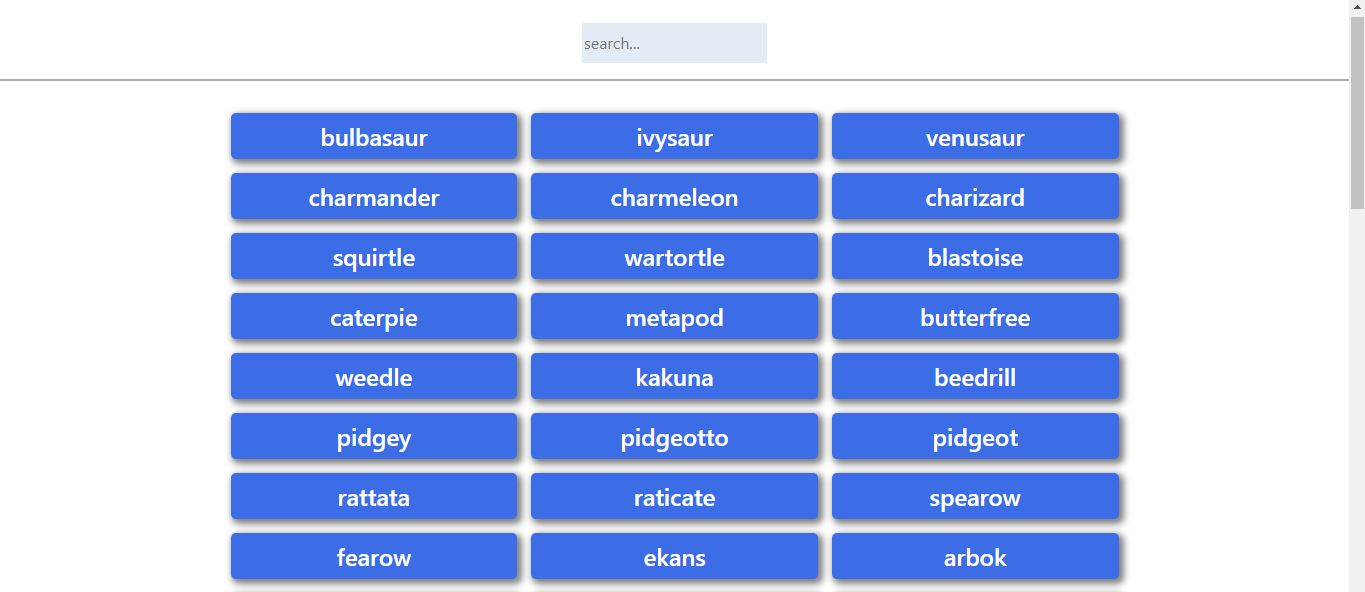
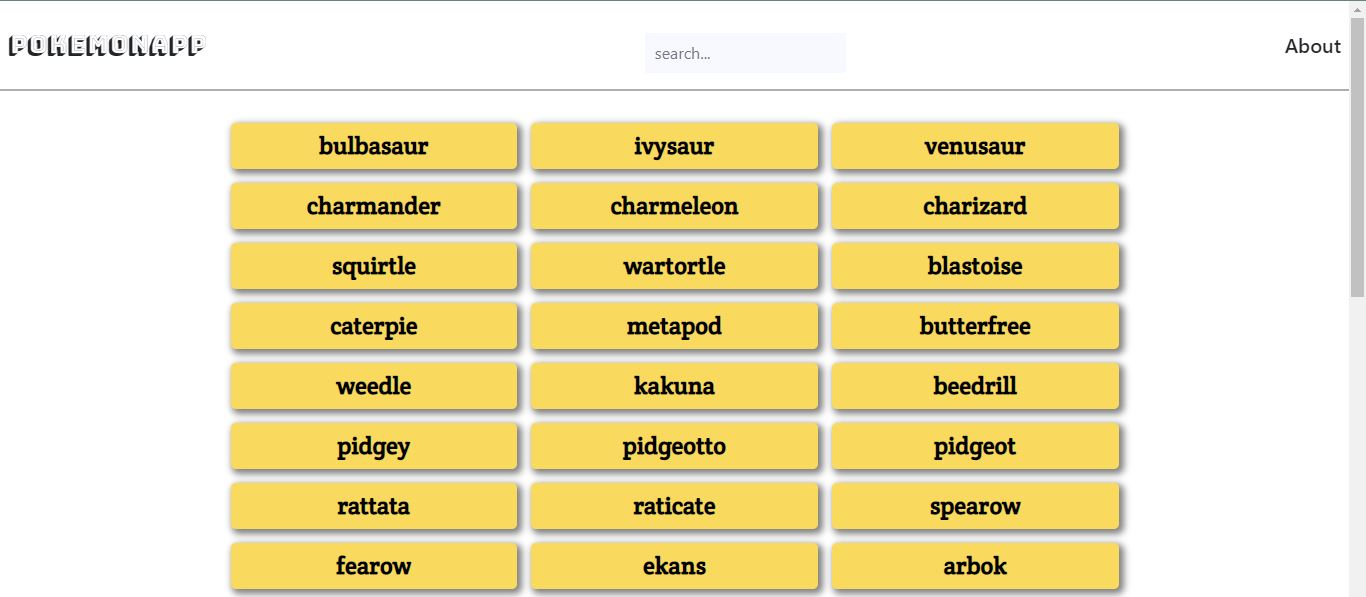
edited the read me page and added responsiveness to the navbar

diff --git a/css/dist-styles.css b/css/dist-styles.css
@@ -1,1 +1,1 @@
-.load{position:fixed;width:100vw;height:100vh;z-index:999;background-color:#fff;display:-webkit-box;display:-ms-flexbox;display:flex;-webkit-box-pack:center;-ms-flex-pack:center;justify-content:center;-webkit-box-align:center;-ms-flex-align:center;align-items:center}.load.hide{display:none}.header{border-bottom:#abaeb2 2px solid;position:sticky;top:0;background-color:#fff}.header-logo{font-family:'Bungee Shade',cursive;font-size:24px}input{background-color:#f8f8ff;border:none;padding:0 10px}#pokemon-div{display:-ms-grid;display:grid;-ms-grid-columns:1fr;grid-template-columns:1fr;-ms-grid-rows:auto;grid-template-rows:auto;row-gap:14px;width:80%;margin:16px 0}#pokemon-div>:nth-child(1){-ms-grid-row:1;-ms-grid-column:1}.pokemon-name{width:100%;margin:0 auto;background-color:#fada5e;color:#000;padding:5px 8px;border-radius:5px;border:none;width:100%;font-weight:600;font-size:24px;font-family:'Crete Round',serif;-webkit-box-shadow:3px 3px 7px 2px grey;box-shadow:3px 3px 7px 2px grey}.pokemon-name:focus,.pokemon-name:hover{-webkit-box-shadow:none;box-shadow:none}#pokemon-container{display:-webkit-box;display:-ms-flexbox;display:flex;-webkit-box-pack:center;-ms-flex-pack:center;justify-content:center;-webkit-box-align:center;-ms-flex-align:center;align-items:center}@media all and (min-width:500px) and (max-width:750px){#pokemon-div{display:-ms-grid;display:grid;-ms-grid-columns:1fr 14px 1fr;grid-template-columns:repeat(2,1fr);-ms-grid-rows:auto;grid-template-rows:auto;gap:14px 14px}#pokemon-div>:nth-child(1){-ms-grid-row:1;-ms-grid-column:1}#pokemon-div>:nth-child(2){-ms-grid-row:1;-ms-grid-column:3}}@media all and (min-width:750px){#pokemon-div{display:-ms-grid;display:grid;-ms-grid-columns:1fr 14px 1fr 14px 1fr;grid-template-columns:repeat(3,1fr);-ms-grid-rows:auto;grid-template-rows:auto;gap:14px 14px}#pokemon-div>:nth-child(1){-ms-grid-row:1;-ms-grid-column:1}#pokemon-div>:nth-child(2){-ms-grid-row:1;-ms-grid-column:3}#pokemon-div>:nth-child(3){-ms-grid-row:1;-ms-grid-column:5}}
+.load{position:fixed;width:100vw;height:100vh;z-index:999;background-color:#fff;display:-webkit-box;display:-ms-flexbox;display:flex;-webkit-box-pack:center;-ms-flex-pack:center;justify-content:center;-webkit-box-align:center;-ms-flex-align:center;align-items:center}.load.hide{display:none}.header{border-bottom:#abaeb2 2px solid;position:sticky;top:0;background-color:#fff}.header-logo{font-family:'Bungee Shade',cursive;font-size:24px}.header-about{font-size:20px;font-weight:500}input{background-color:#f8f8ff;border:none;padding:0 10px}#pokemon-div{display:-ms-grid;display:grid;-ms-grid-columns:1fr;grid-template-columns:1fr;-ms-grid-rows:auto;grid-template-rows:auto;row-gap:14px;width:80%;margin:16px 0}#pokemon-div>:nth-child(1){-ms-grid-row:1;-ms-grid-column:1}.pokemon-name{width:100%;margin:0 auto;background-color:#fada5e;color:#000;padding:5px 8px;border-radius:5px;border:none;width:100%;font-weight:600;font-size:24px;font-family:'Crete Round',serif;-webkit-box-shadow:3px 3px 7px 2px grey;box-shadow:3px 3px 7px 2px grey}.pokemon-name:focus,.pokemon-name:hover{-webkit-box-shadow:none;box-shadow:none}#pokemon-container{display:-webkit-box;display:-ms-flexbox;display:flex;-webkit-box-pack:center;-ms-flex-pack:center;justify-content:center;-webkit-box-align:center;-ms-flex-align:center;align-items:center}@media all and (min-width:500px) and (max-width:750px){#pokemon-div{display:-ms-grid;display:grid;-ms-grid-columns:1fr 14px 1fr;grid-template-columns:repeat(2,1fr);-ms-grid-rows:auto;grid-template-rows:auto;gap:14px 14px}#pokemon-div>:nth-child(1){-ms-grid-row:1;-ms-grid-column:1}#pokemon-div>:nth-child(2){-ms-grid-row:1;-ms-grid-column:3}}@media all and (min-width:750px){#pokemon-div{display:-ms-grid;display:grid;-ms-grid-columns:1fr 14px 1fr 14px 1fr;grid-template-columns:repeat(3,1fr);-ms-grid-rows:auto;grid-template-rows:auto;gap:14px 14px}#pokemon-div>:nth-child(1){-ms-grid-row:1;-ms-grid-column:1}#pokemon-div>:nth-child(2){-ms-grid-row:1;-ms-grid-column:3}#pokemon-div>:nth-child(3){-ms-grid-row:1;-ms-grid-column:5}}

diff --git a/index.html b/index.html
@@ -16,10 +16,10 @@
         <div class="load">
            <img src="images/loadingIcon.gif" alt="loadingIcon">
         </div>
-        <div class="d-flex justify-content-between align-items-center flex-column-sm my-3 header">
+        <div class="d-flex flex-column flex-md-row justify-content-between align-items-center  my-3 header">
             <p class="header-logo ml-2">POKEMONAPP</p>
             <input id="search" type="text" class="input my-3 py-2" placeholder="search..."/>
-            <p class="fs-1 mr-2">About</p>
+            <p class="mr-2 header-about">About</p>
         </div>
         <div class="modal fade" id="exampleModal" tabindex="-1" role="dialog" 
              aria-labelledby="exampleModalLabel" aria-hidden="true">

diff --git a/css/styles.css b/css/styles.css
@@ -25,6 +25,11 @@
 	font-family: 'Bungee Shade', cursive;
 	font-size: 24px;
 }
+
+.header-about{
+	font-size: 20px;
+	font-weight: 500;
+}
 input{
 	background-color: #f8f8ff;
 	border: none;

diff --git a/README.md b/README.md
@@ -4,38 +4,22 @@
 
 ## About
 
-Pokemon-app displays pokemons fetched from the [pokeApi](https://pokeapi.co/). When clicked, each pokemon element displays futher details about the particular pokemon by use of a modal.
+Pokemon-app loads and displays pokemons fetched from the [pokeApi](https://pokeapi.co/). Each pokemon element displays futher details about the particular pokemon by use of a modal on user click.
 
 ## Built With
 
 - HTML,CSS & Javascript
 - Bootstrap
-- technologies used
 
 ## Live Demo
 
 [Live Demo Link](https://tabetommy.github.io/pokemon-app/)
 
-## Getting Started
+## Lessons learned
 
-**This is an example of how you may give instructions on setting up your project locally.**
-**Modify this file to match your project, remove sections that don't apply. For example: delete the testing section if the currect project doesn't require testing.**
+- During this project i learnt how to use the fetch API to load data from eternal APIs
+- I also learnt how to use IIFEs(immediately invoked function expressions) to isolate variable declarations
 
-To get a local copy up and running follow these simple example steps.
-
-### Prerequisites
-
-### Setup
-
-### Install
-
-### Usage
-
-### Run tests
-
-### Deployment
-
-## Authors
 
 👤 **Author1**
 
@@ -52,12 +36,3 @@ Feel free to check the [issues page](issues/).
 
 Give a ⭐ if you like this project!
 
-## Acknowledgments
-
-- Hat tip to anyone whose code was used
-- Inspiration
-- etc
-
-## 📝 License
-
-This project is [MIT](lic.url) licensed.
